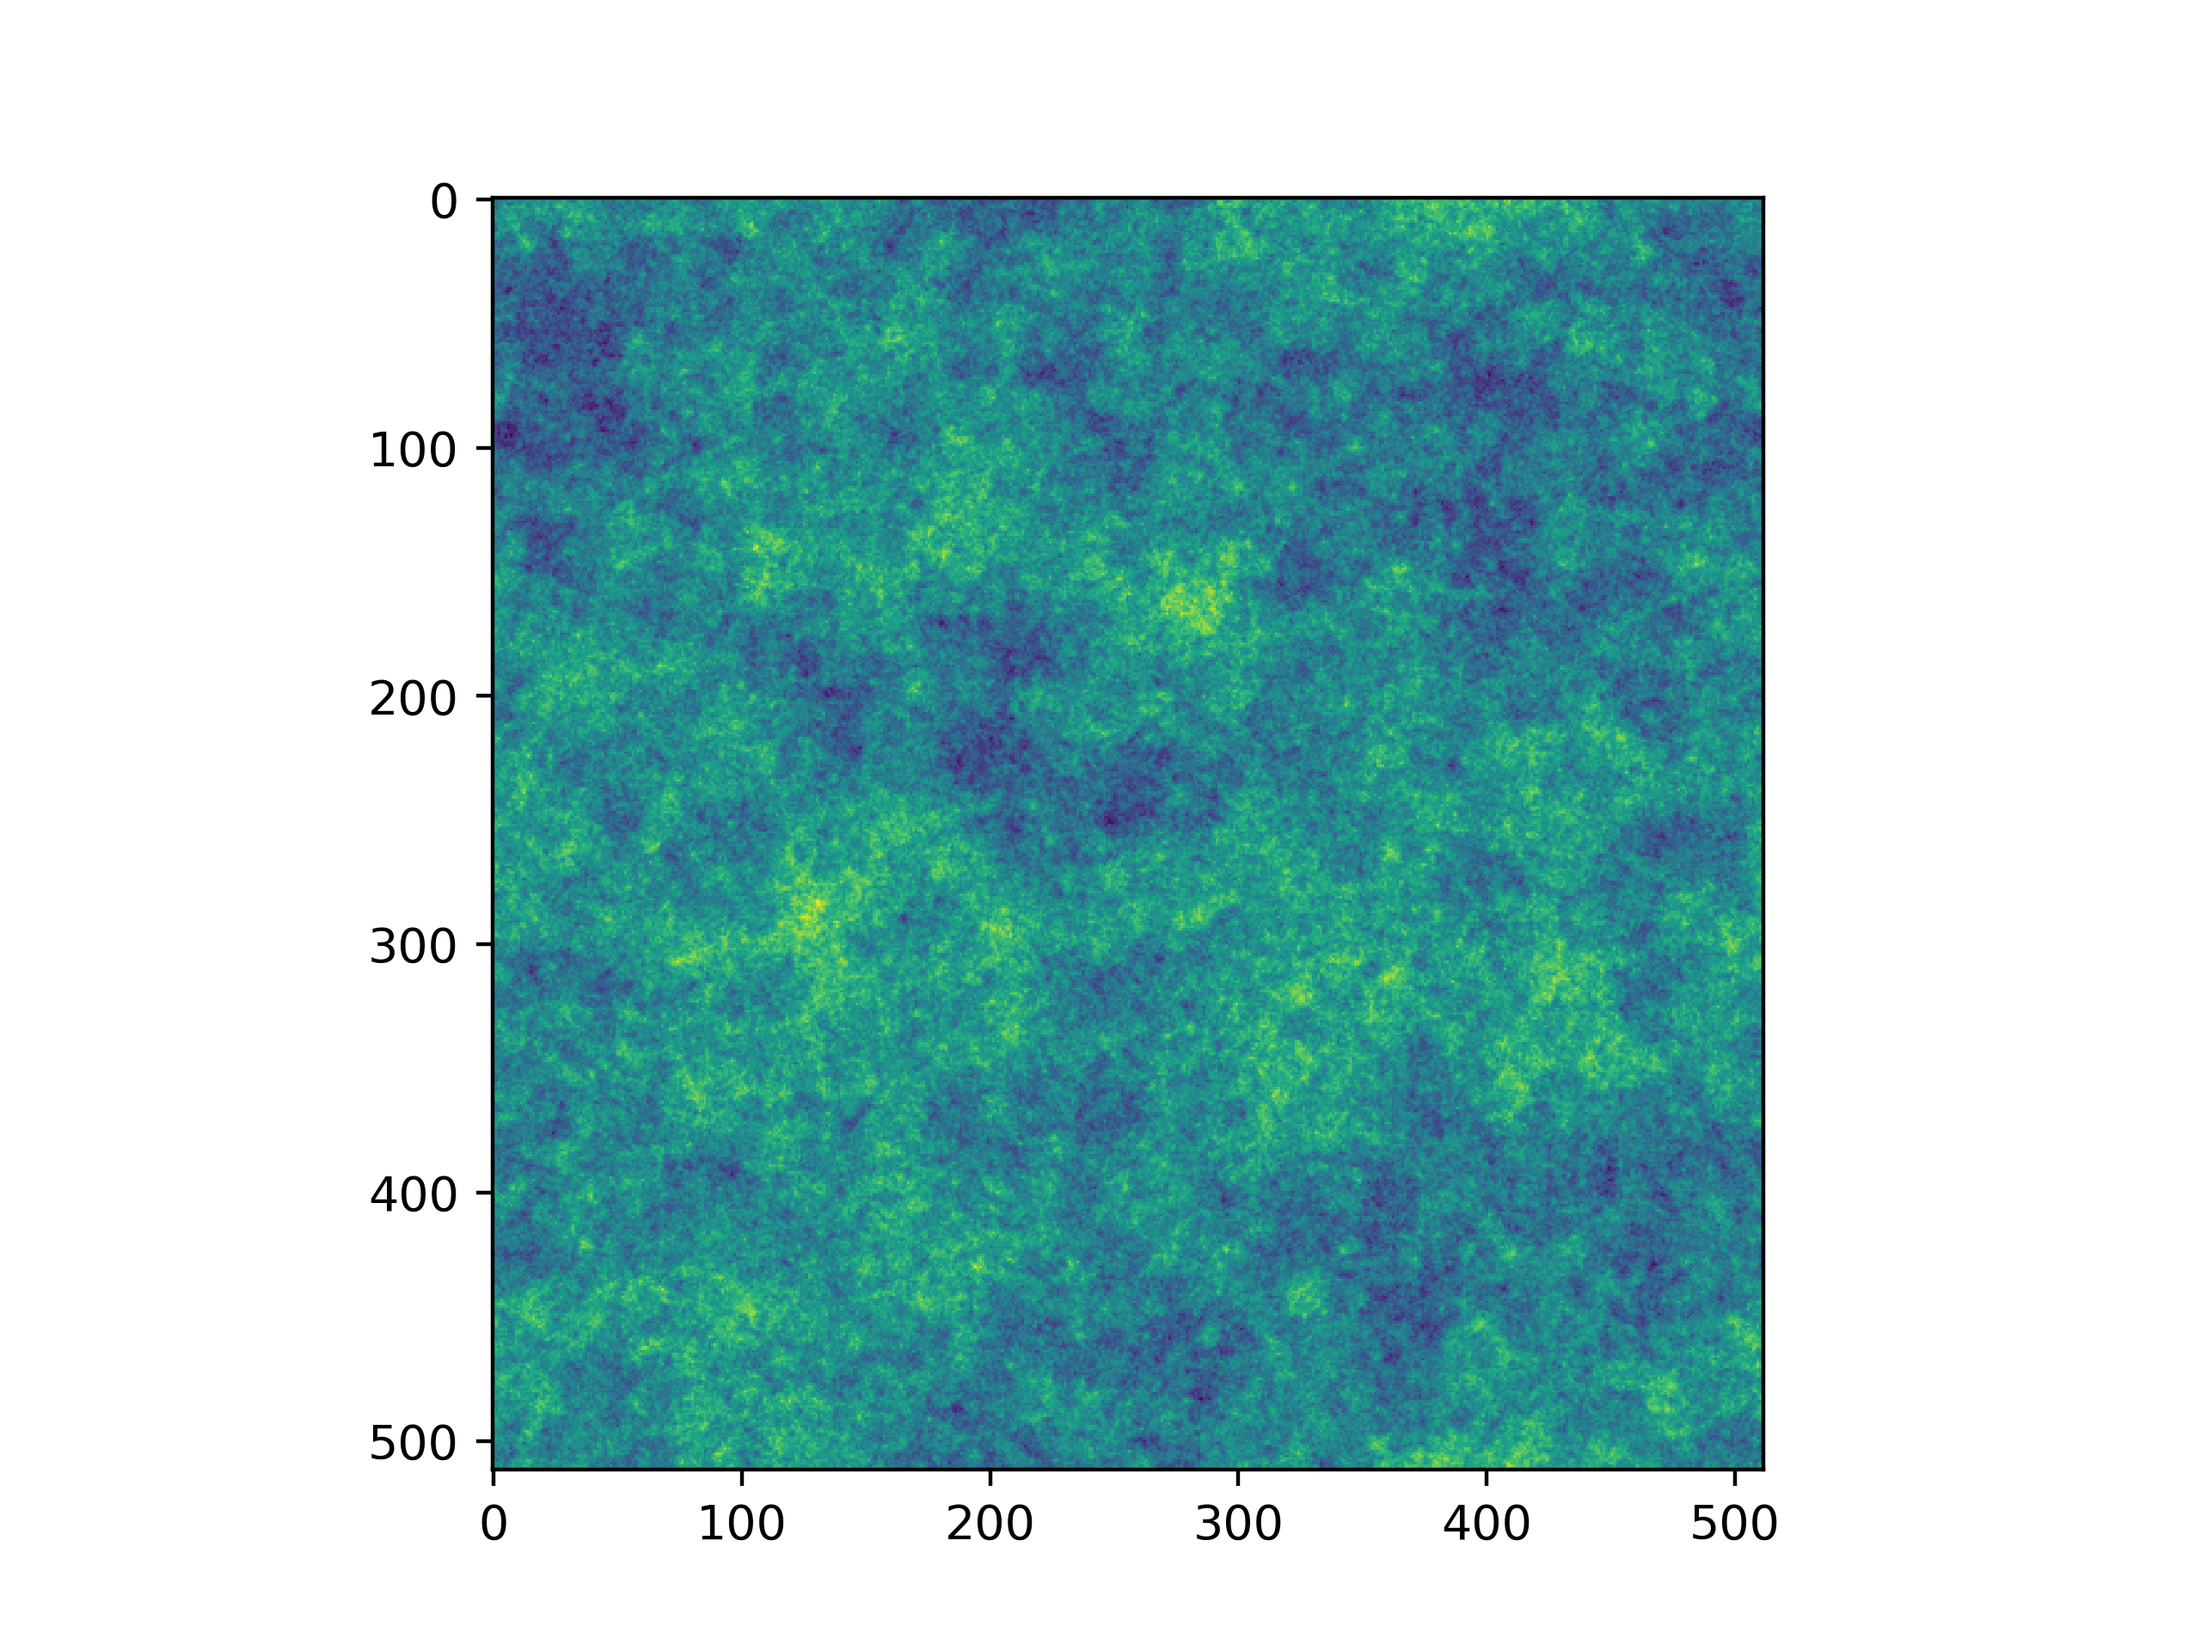
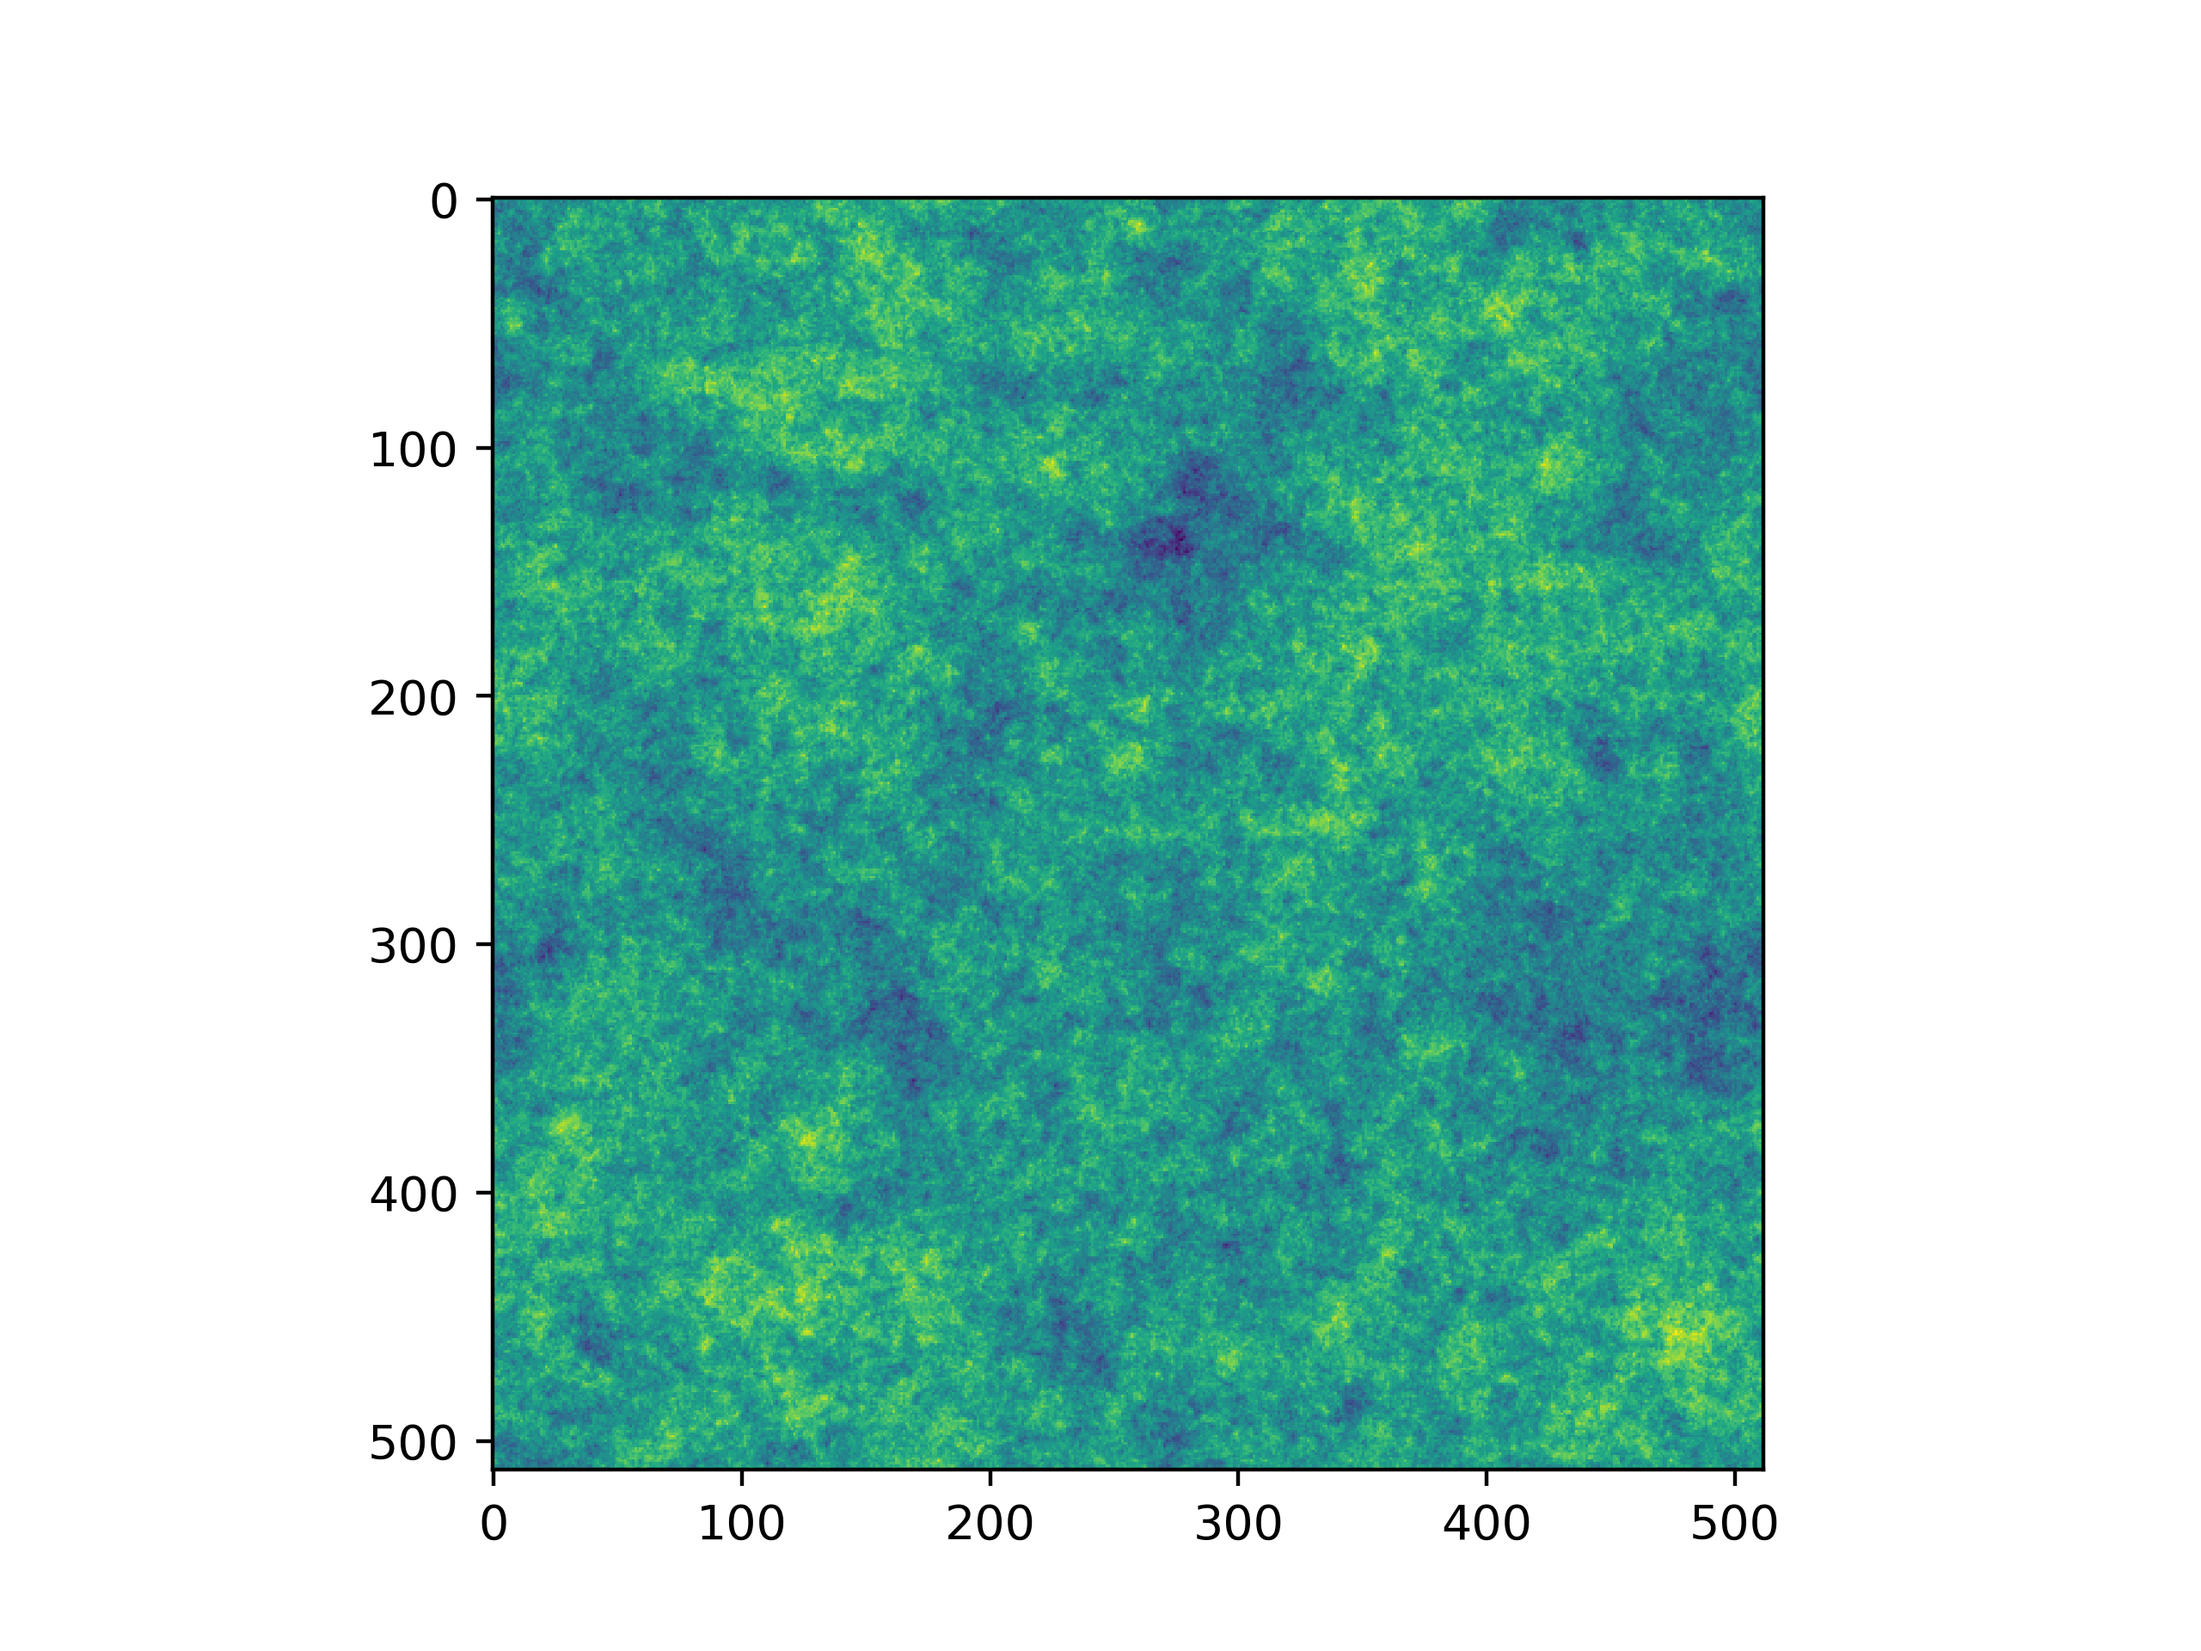
07.12.20 ... power spectrum, finally it works

Changed region(s): [[0.2188, 0.0938, 0.8125, 0.9062]]

diff --git a/Simulation_chi_in_kspace.py b/Simulation_chi_in_kspace.py
@@ -63,13 +63,13 @@ gmu_6 = 0.3
 #string speed
 vsgammas_square = 1./3
 #temperature of HI atoms inside the wake [K]
-T_K = 20*gmu_6*vsgammas_square*(z_i+1.)/(z+1)
+T_K = 20 * gmu_6**2 * vsgammas_square * (z_i+1.)/(z+1)
 #CMB temperature [K]
 T_gamma = 2.725*(1+z)
 #background numberdensity hydrogen [cm^-3]
 nback=1.9e-7 *(1.+z)**3
 #collision coeficcient hydrogen-hydrogen (density in the wake is 4* nback, Delta E for hyperfine is 0.068 [K], A_10 = 2.85e-15 [s^-1])
-xc = 4*nback*deexitation_crosssection(T_K)* 0.068/(2.85e-15 *T_gamma)
+xc = 0.16# 4*nback*deexitation_crosssection(T_K)* 0.068/(2.85e-15 *T_gamma)
 #wake brightness temperature [K]
 T_b = 0.07* xc/(xc+1.)*(1-T_gamma/T_K)*np.sqrt(1.+z)
 #fraction of baryonc mass comprised of HI. Given that we consider redshifts of the dark ages, we can assume that all the
@@ -85,15 +85,17 @@ patch_angle = 5. #in degree
 angle_per_pixel = patch_angle/patch_size
 #Gaussian noise properties, alpha noise according to arXiv:2010.15843
 alpha_noise = 0.0475
-sigma_noise = 0.1#T_back*alpha_noise
-mean_noise = 1#T_back
+sigma_noise = T_back*alpha_noise
+mean_noise = T_back
 power_law = -2.0
+#not so improtant ..
+
 #wake properties
-wake_brightness = 0.1*sigma_noise#T_b
+wake_brightness = T_b* 1e3 #in mK
 wake_size_angle = 1 #in degree
 shift_wake_angle = [0, 0]
 
-
+print(wake_brightness)
 
 
 
@@ -117,18 +119,33 @@ def foreground_power_spectrum(k, A, beta, a): # Xi):
     #an example from arXiv:2010.15843 (deep21)
     lref = 1100
     vref = 130 #MHz
-    ps = np.zeros((len(k[1]), len(k[1])))
-    for i in range(0, len(k[1])):
-        for j in range(0, len(k[1])):
-            l = 360 * k[i][j]/(2 * math.pi)
+    print(np.dtype(k[1]))
+    if np.dtype(k[1]).name == 'np.float64': #TODO: fix
+        ps = np.zeros(len(k))
+        for i in range(0, len(k)):
+            l = 360 * k[i] / (2 * math.pi)
             l_bottom = math.floor(l)
             l_top = l_bottom + 1
             delta_l = l - l_bottom
             if l_bottom == 0:
-                ps[i][j] = delta_l * A * (lref/l_top)**beta * (vref**2/(1420/(z+1)))**a
+                ps[i] = delta_l * A * (lref / l_top) ** beta * (vref ** 2 / (1420 / (z + 1))) ** a
             else:
-                ps[i][j] = delta_l * (A * (lref/l_bottom)**beta * (vref**2/(1420/(z+1)))**a - A * (lref/l_top)**beta * (vref**2/(1420/(z+1)))**a)  #exp()
-    return ps
+                ps[i] = delta_l * (A * (lref / l_bottom) ** beta * (vref ** 2 / (1420 / (z + 1))) ** a - A * (
+                            lref / l_top) ** beta * (vref ** 2 / (1420 / (z + 1))) ** a)  # exp()
+        return ps
+    else:
+        ps = np.zeros((len(k[1]), len(k[1])))
+        for i in range(0, len(k[1])):
+            for j in range(0, len(k[1])):
+                l = 360 * k[i][j]/(2 * math.pi)
+                l_bottom = math.floor(l)
+                l_top = l_bottom + 1
+                delta_l = l - l_bottom
+                if l_bottom == 0:
+                    ps[i][j] = delta_l * A * (lref/l_top)**beta * (vref**2/(1420/(z+1)))**a
+                else:
+                    ps[i][j] = delta_l * (A * (lref/l_bottom)**beta * (vref**2/(1420/(z+1)))**a - A * (lref/l_top)**beta * (vref**2/(1420/(z+1)))**a)  #exp()
+        return ps
 
 
 #define our signal in a real space patch with matched dimensions
@@ -163,14 +180,19 @@ def grf_foreground(type, size):
     kx, ky = np.meshgrid(np.fft.fftfreq(size, angle_per_pixel * 2 * math.pi),
                          np.fft.fftfreq(size, angle_per_pixel * 2 * math.pi))
     mag_k = np.sqrt(kx ** 2 + ky ** 2)
-    if type == 1 :
-        return np.fft.ifft2(noise * foreground_power_spectrum(mag_k, 1100, 3.3, 2.80)**0.5).real, mag_k
+    if type == 1:
+        grf = np.fft.ifft2(noise * foreground_power_spectrum(mag_k, 700, 3.3, 2.80)**0.5).real
+        return grf, mag_k
     if type == 2:
-        return np.fft.ifft2(noise * foreground_power_spectrum(mag_k, 47, 1.1, 2.07) ** 0.5).real, mag_k
+        grf = np.fft.ifft2(noise * foreground_power_spectrum(mag_k, 700, 3.3, 2.80)**0.5).real
+        return grf, mag_k
     if type == 3:
-        return np.fft.ifft2(noise * foreground_power_spectrum(mag_k, 0.088, 3.0, 2.15) ** 0.5).real, mag_k
+        grf = np.fft.ifft2(noise * foreground_power_spectrum(mag_k, 0.088, 3.0, 2.15) ** 0.5).real
+        return grf, mag_k
     if type == 4:
-        return np.fft.ifft2(noise * foreground_power_spectrum(mag_k, 0.014, 1.0, 2.10) ** 0.5).real, mag_k
+        grf = np.fft.ifft2(noise * foreground_power_spectrum(mag_k, 0.014, 1.0, 2.10) ** 0.5).real
+        return grf, mag_k
+
 
 #define function that generates a gaussian random field of size patch_size with my signal
 def gaussian_random_field_with_signal(size = 100, sigma = 1., mean = 0., angleperpixel = 1. , alpha =-1.0):
@@ -185,7 +207,7 @@ def gaussian_random_field_with_signal(size = 100, sigma = 1., mean = 0., anglepe
 
 
 '''Section 3: Define a methode that calculates the chi^2 in fourier space'''
-def chi_square(data_sample_real, magnitude_k):
+def chi_square(data_sample_real, magnitude_k, alpha, foreground_type):
     bins = 300
     data_ft = np.fft.fft2(data_sample_real)
     data_ps = np.abs(data_ft)**2/(patch_size*sigma_noise)**2
@@ -196,32 +218,42 @@ def chi_square(data_sample_real, magnitude_k):
     for k in range(0, digi.max()):
         binned_ps.append(np.mean(data_ps[digi == k]))
     binned_ps = np.array(binned_ps).real
-
-    return np.sum(binned_ps/(power_spectrum(k_bin_cents)*bins))
-
+    if foreground_type == 0:
+        return np.sum(binned_ps/(power_spectrum(k_bin_cents, alpha)*bins))
+    if foreground_type == 1:
+        return np.sum(binned_ps/(foreground_power_spectrum(k_bin_cents, 700, 3.3, 2.80)*bins))
+    if foreground_type == 2:
+        return np.sum(binned_ps/(foreground_power_spectrum(k_bin_cents, 47, 1.1, 2.07)*bins))
+    if foreground_type == 3:
+        return np.sum(binned_ps/(foreground_power_spectrum(k_bin_cents, 0.088, 3.0, 2.15)*bins))
+    if foreground_type == 4:
+        return np.sum(binned_ps/(foreground_power_spectrum(k_bin_cents, 0.014, 1.0, 2.10)*bins))
 
 
 '''Section 4: We apply the methods introduced before in various ways.'''
 
 #calculate the chi^2 statistic for n datasamples in fourier space
 #number of sample
-'''N = 300
+N = 300
 chi_list = []
 for l in range(0, N):
     #out = gaussian_random_field(size=patch_size, sigma=sigma_noise, mean=mean_noise, alpha=power_law)
-    out = gaussian_random_field_with_signal(size = patch_size, sigma = sigma_noise, mean = mean_noise, angleperpixel=angle_per_pixel, alpha=power_law)
-    chi_list.append(chi_square(out[0], out[1]))
-print(np.mean(chi_list))'''
+    out = grf_foreground(1, patch_size)
+    chi_list.append(chi_square(out[0], out[1], power_law, 1))
+print(np.mean(chi_list))
 
-out = grf_foreground(4, patch_size)
+'''out = grf_foreground(2, patch_size)
+out2 = np.fft.ifft2(np.fft.fft2(out[0]) + np.fft.fft2(stringwake_ps(patch_size, wake_brightness, wake_size_angle,
+                                                                      angle_per_pixel, shift_wake_angle))).real
 plt.xlabel('degree')
 plt.ylabel('degree')
 my_ticks = [-2.5, -1.5, -0.5, 0, 0.5, 1.5, 2.5]
 plt.xticks([0,  102,  204,  256, 308, 410, 511], my_ticks)
 plt.yticks([0,  102,  204,  256, 308, 410, 511], my_ticks)
-plt.imshow(out[0])
+plt.imshow(out2)
 plt.colorbar(label = 'mK')
-plt.savefig('test_foreground_EG_f_f.png', dpi=400)
+plt.show()
+#plt.savefig('test_foreground_EG_f_f.png', dpi=400)'''
 
 #Plot the GRF map for a given size for different power spectra
 '''for alpha in [power_law]:
